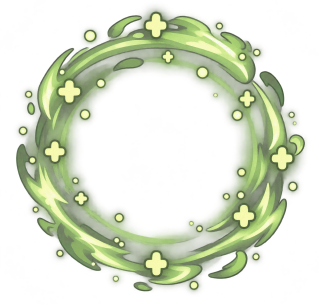
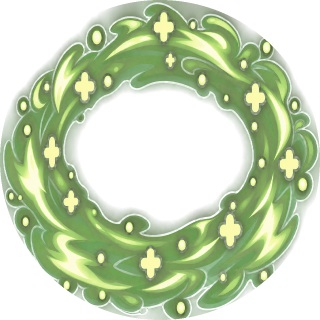
Puah III healing area uses the corrected ring artwork (v2), black background removed and recoloured to her dress green

diff --git a/src/game/championFx.ts b/src/game/championFx.ts
@@ -279,7 +279,7 @@ function drawPuahRing(ctx: CanvasRenderingContext2D, x: number, y: number, e: En
   const ring = art(puahRingUrl);
   if (ring) {
     const rw = R * 2, rh = rw * ring.naturalHeight / ring.naturalWidth;
-    ctx.save(); ctx.scale(1, .5);
+    ctx.save(); ctx.scale(1, .58);
     // Faint copy, a little larger, turning the other way.
     ctx.save(); ctx.rotate(-t * .45); ctx.globalAlpha = .28 * fade; ctx.drawImage(ring, -rw * .54, -rh * .54, rw * 1.08, rh * 1.08); ctx.restore();
     ctx.rotate(t * .7);
